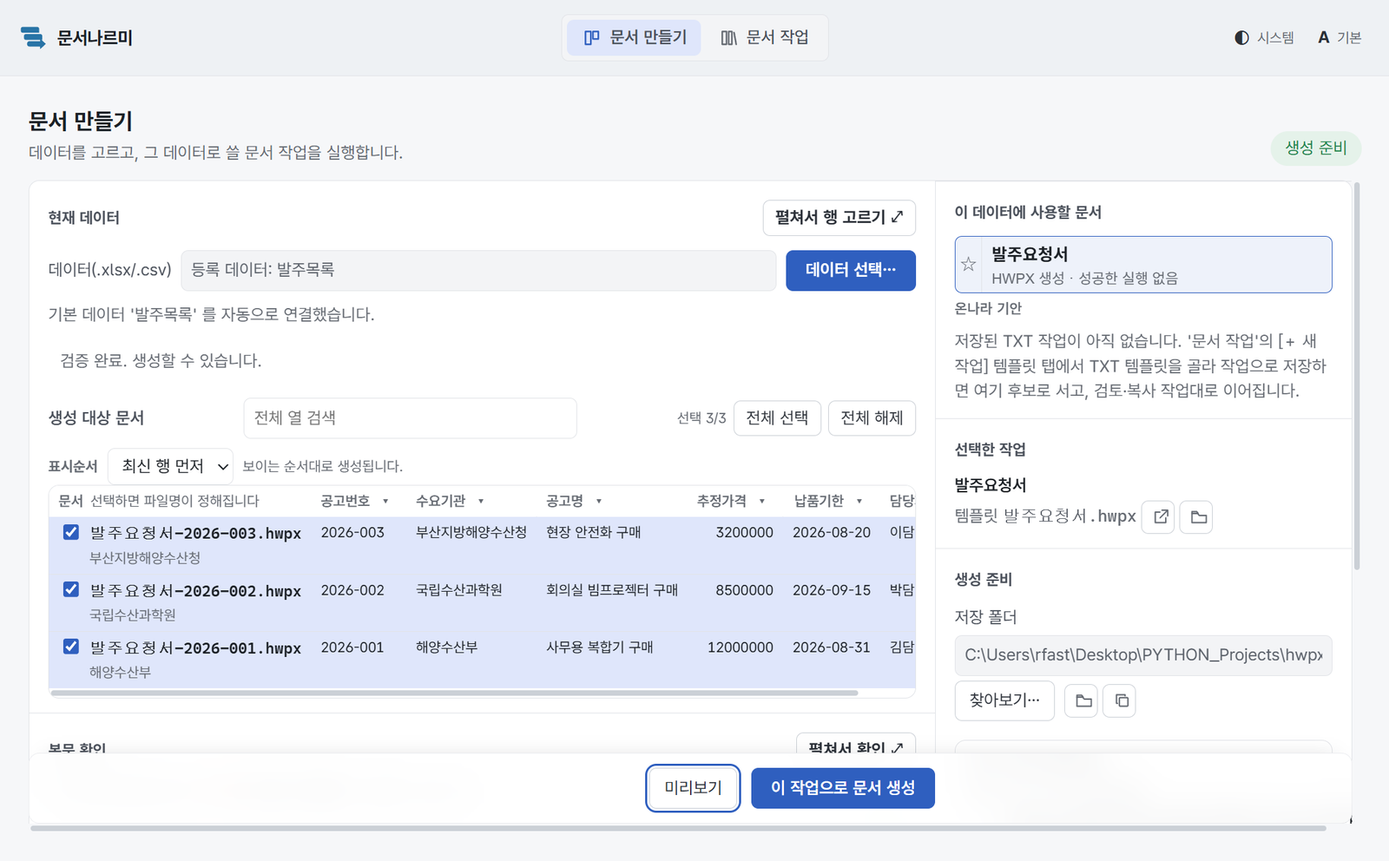
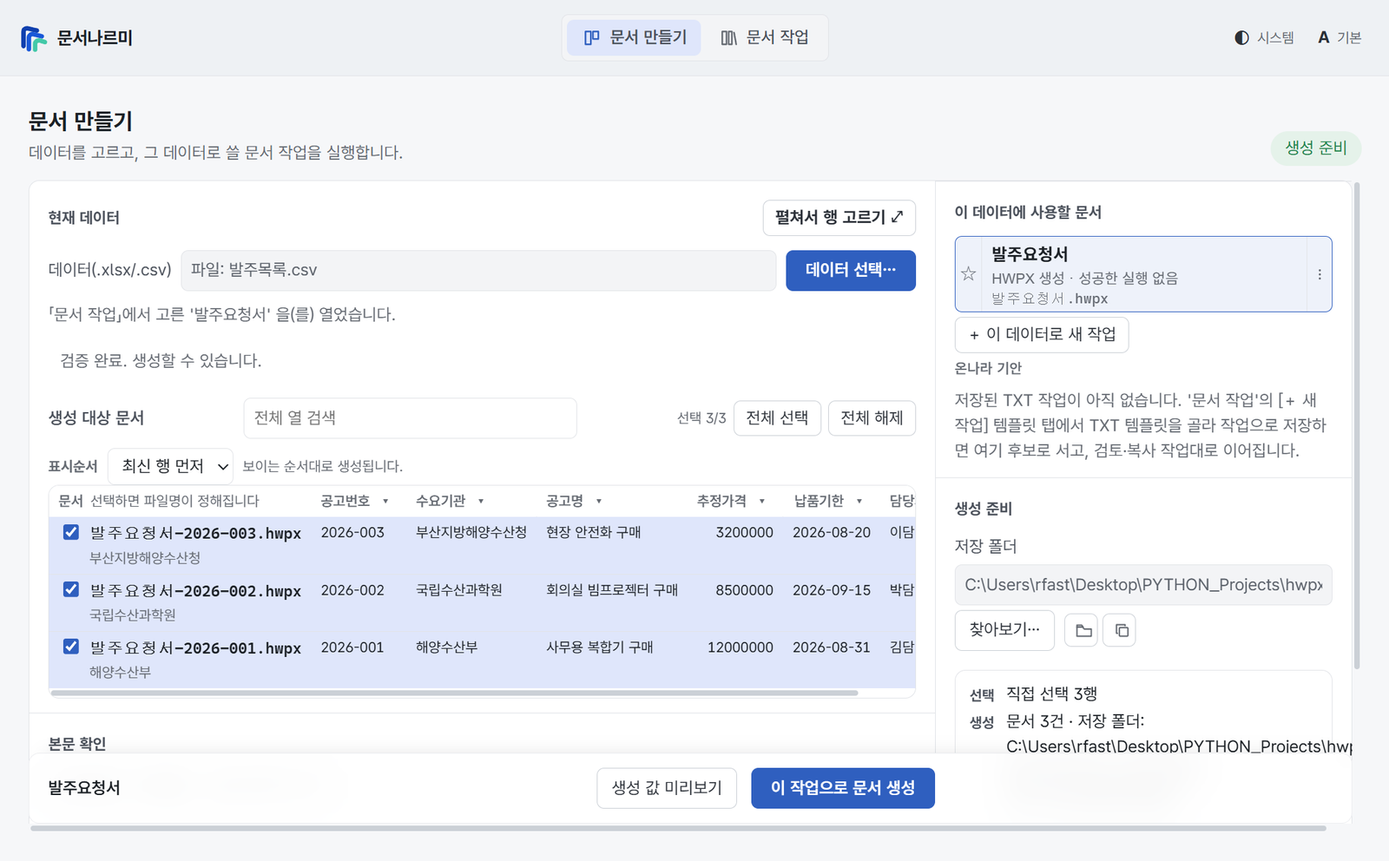
chore(101): 캡처 하니스를 현재 동작에 맞추고 14컷 재생성 (#352)
근거: docs/UX_FEEDBACK_U2.md §6 매체 경보. 기준 트리 `ee9a0a5`.

착수해 보니 원인이 「안 돌렸다」가 아니었다 — 하니스가 7단계에서 죽었다. #347(27f7b0a)이 작업↔데이터 결속과 자동 조준을 폐기했으므로 「기본 데이터 자동 연결」 문안은 다시 서지 않는다. 계측 매체가 사라진 동작을 기다리며 멈춰 있었고, 낡은 그림은 그 결과였다.

- 하니스 대기 조건 9자리를 현재 동작으로: 데이터 선택 실경로(#347·#343) · 「생성 값 미리보기」 + 비잠금 확인 · 본문 확인 한 줄(#346) · 저장 시 등록 왕복 삭제(#347) · 화면 전체 텍스트 매칭 → #jobActionName 정확 비교(전자는 안 열린 화면을 통과로 읽는다) · 스키마 표로 스크롤
- shot(settle=) 로 찢긴 프레임 2건 봉합 — 대기 조건은 먼저 참이 되는 것 하나만 보고 마지막 페인트는 DOM 에서 못 잰다
- 101 README 서사 정정(데이터 선택 걸음 신설 · 사라진 3개 서술 삭제 · ack → 승인 1번 · 캡션 5곳)
- 14컷 재생성 + 양성 대조: 08 에 「생성 값 미리보기」 실재 · 「선택한 작업」 존 소멸(#342) · 05 데이터 함께 등록 소멸(#347) · 07 1 pane 시트(#346) 눈으로 확인

남긴 것: PATTERNS.md(102)의 같은 부류 stale 3곳은 더 이른 마일스톤 잔재까지 안고 있어 별도 단위.

Closes #352

diff --git a/scripts/capture_101_screenshots.py b/scripts/capture_101_screenshots.py
@@ -206,8 +206,15 @@ class Driver:
         if not ok:
             raise RuntimeError(f"스크롤 대상 못 찾음: {sel}")
 
-    def shot(self, name: str) -> None:
-        time.sleep(0.45)  # 렌더·모션(≤160ms)·스크롤 안정
+    def shot(self, name: str, settle: float = 0.45) -> None:
+        """캡처 1컷 — ``settle`` 은 셔터 앞 정착 시간(렌더·모션 ≤160ms·스크롤).
+
+        대기 조건은 **먼저 참이 되는 것 하나**만 본다(예: 복사 카운터). 같은 왕복이
+        낳는 다른 재렌더(왼쪽 표 전체)가 아직 합성 중이면 ``PrintWindow`` 가 반쪽
+        프레임을 뜬다 — 실제로 그렇게 찢긴 컷이 나왔다. 조건을 더 붙여도 「마지막
+        페인트가 끝났는가」는 DOM 에서 못 재므로, 재렌더가 큰 자리만 정착을 늘린다.
+        """
+        time.sleep(settle)
         self.shot_no += 1
         _capture_window(self.hwnd, OUT_DIR / f"{self.shot_no:02d}-{name}.png")
 
@@ -262,6 +269,10 @@ def _drive(d: Driver) -> None:
         "document.querySelector('#scr-editor').textContent.includes('공고번호')",
         "템플릿 선택·필드 스키마",
     )
+    # 텍스트가 **있다**는 것과 **보인다**는 것은 다르다: 스키마 표는 템플릿 목록 아래라
+    # 기본 스크롤에서 폴드 밖이고, 위 조건은 그 상태에서도 참이다(문서가 "6개 필드를
+    # 확인한다"고 적은 그림에 표가 없게 된다). 겨눠 스크롤해 그 말을 그림이 지게 한다.
+    d.scroll_to("#scr-editor table.schema-fields")
     d.shot("template-pick")
 
     # ---- S3 2단계: 데이터 연결 + 모두 확정 ---------------------------------
@@ -316,9 +327,7 @@ def _drive(d: Driver) -> None:
     d.wait("document.querySelector('#scr-job.on') !== null", "편집기 이탈")
 
     # ---- S5 실행 세션(「문서 작업」에서 골라 문서 만들기로) ------------------
-    # 좌 목록 사망 뒤 저장된 작업을 찾는 자리는 「문서 작업」 하나다(F2 PR-B). 3단계의
-    # "데이터 함께 등록" 기본값 덕에 이 작업은 기본 데이터를 가지므로, 「문서 만들기에서
-    # 사용」이 곧바로 열고 3건을 자동 연결한다(#53-A · 지도 §10.9 판정 I).
+    # 좌 목록 사망 뒤 저장된 작업을 찾는 자리는 「문서 작업」 하나다(F2 PR-B).
     d.js("window.Nav.go('library'); true;")
     d.wait(
         "!!document.querySelector('#libraryList [data-work=\"발주요청서\"]')",
@@ -328,13 +337,44 @@ def _drive(d: Driver) -> None:
     d.wait("!!document.querySelector('#libraryDetail [data-use]')", "상세 상시 행동")
     d.shot("library-detail")
     d.click_sel('#libraryDetail [data-use="발주요청서"]')
+    # 작업↔데이터 결속(`Job.default_dataset_ref`)과 자동 조준은 U2 §5.3 판정 D 로 폐기됐다
+    # (#347) — 「문서 만들기에서 사용」은 **데이터 선택을 반드시 지난다**. 데이터가 없으면
+    # 백엔드가 그 명시 사건을 보관만 하고(reason=no_data), 마운트 순간
+    # `_apply_preferred_work` 가 그때 판정해 작업을 연다. 101 도 이 순서를 그대로 가르친다.
+    d.wait("document.querySelector('#scr-job.on') !== null", "문서 만들기 착지")
+    _DIALOG_ANSWERS.append(CSV)
+    d.click_sel("#jobBtnPickData")
     d.wait(
-        "document.querySelector('#scr-job').textContent.includes('자동으로 연결')",
-        "기본 데이터 자동 연결",
+        "!document.getElementById('dataPickerModal').classList.contains('hidden')",
+        "데이터 선택 면",
+    )
+    d.click_sel("#dataPickerBrowse")
+    # 찾아보기 성사는 **면을 닫지 않는다**(U2 §2.7, #343): 「현재 데이터」가 방금 고른
+    # 파일로 재진술되고 그 자리에 「이 데이터 고정…」이 선다. 존재만 재면 hidden 버튼도
+    # 통과하므로(프로브 click 이 hidden 을 지나는 것과 같은 함정) **가시성**으로 잰다.
+    d.wait(
+        "(function(){"
+        "if(document.getElementById('dataPickerModal').classList.contains('hidden'))return false;"
+        "if(!document.querySelector('#dataPickerCurrent .tplcard-name'))return false;"
+        "const b=document.getElementById('dataPickerPin');"
+        "return !!b && getComputedStyle(b).display !== 'none';})()",
+        "찾아보기 성사·면 유지·고정 버튼 가시",
+        timeout=25.0,
+    )
+    d.click_sel("#dataPickerClose")
+    # 보관된 명시 사건이 이 마운트에서 판정돼 작업이 열린다. 「열렸다」의 정본은 액션바
+    # 이름이다(「선택한 작업」 존 사망의 승계처 — U2 §4 판정 A, #342): 후보 카드 문안으로
+    # 재면 카드 목록에 이름이 **있기만 해도** 참이 돼 안 열린 화면을 통과로 읽는다.
+    d.wait(
+        "document.getElementById('dataPickerModal').classList.contains('hidden')"
+        " && document.getElementById('jobActionName').textContent.trim() === '발주요청서'"
+        " && document.getElementById('jobDataLabel').value.length > 0"
+        " && !document.getElementById('jobSelAll').disabled",
+        "데이터 마운트·보관 작업 승격",
         timeout=25.0,
     )
     # 데이터-우선 계약(§18.2): 새 데이터의 선택은 **0건**에서 시작한다 — 무엇을 만들지는
-    # 사용자가 고른다. 그래서 자동 연결만으로는 게이트가 열리지 않고, 여기서 전체 선택을
+    # 사용자가 고른다. 그래서 마운트만으로는 게이트가 열리지 않고, 여기서 전체 선택을
     # 눌러야 「N개 생성」이 열린다. 101 도 이 순서를 그대로 가르친다.
     d.click_sel("#jobSelAll")
 
@@ -342,9 +382,13 @@ def _drive(d: Driver) -> None:
     # 방금 만든 작업은 아직 한 번도 문서를 만들지 않았다 — §13-3 대로 결과를 확인해야
     # 실행할 수 있다. 행을 골라도 게이트는 아직 닫혀 있고, 미리보기에서 확인해야 열린다.
     # 101 은 이 순서를 그대로 가르친다(다음 실행부터는 §13-2 대로 조용하다).
+    # 게이트가 「생성 값 미리보기」를 지목하는데 그 버튼이 잠겨 있으면 이행 불가능한
+    # 지시다 — 지목과 가용성을 **같이** 재고 나서 누른다(누를 것을 찾지 못하는 상태에서
+    # click 만 던지면 「버튼 못 찾음」이 아니라 조용한 무반응이 된다).
     d.wait(
         "document.getElementById('jobGenBtn').disabled"
-        " && document.getElementById('jobGate').textContent.includes('미리보기')",
+        " && document.getElementById('jobGate').textContent.includes('생성 값 미리보기')"
+        " && !document.getElementById('jobPreviewOpen').disabled",
         "첫 실행 검토 요구",
     )
     d.click_sel("#jobPreviewOpen")
@@ -352,9 +396,11 @@ def _drive(d: Driver) -> None:
         "!document.getElementById('previewSheet').classList.contains('hidden')"
         " && document.querySelectorAll('#previewRows .mir-row').length > 0"
         " && document.getElementById('previewFilename').textContent.length > 0",
-        "미리보기 드로어·값·파일 이름",
+        "확인 면(생성 값 미리보기)·값·파일 이름",
     )
-    d.shot("preview-drawer")
+    # 시트 전이(합성 레이어 신설 + 본문 채우기)도 같은 반쪽 프레임 함정이 있다 —
+    # 모달 컷이 간헐적으로 찢겼던 자리라 정착을 넉넉히 준다.
+    d.shot("preview-drawer", settle=1.2)
     d.click_sel("#previewApprove")
     # 승인은 명시 사건이다 — 버튼이 사라지는 것이 그 사건의 착지다(면은 열린 채 남아
     # 나머지 문서를 계속 넘겨볼 수 있다).
@@ -414,8 +460,17 @@ def _drive(d: Driver) -> None:
         "취소 뒤 메인 범위 보존",
     )
 
-    # ---- S6 본문 확인(거울) ------------------------------------------------
-    d.scroll_to("#jobMirror")
+    # ---- S6 본문 확인(한 줄) ------------------------------------------------
+    # 거울 표와 필드축 ack 는 U2 §2.13 으로 폐기됐다(#346) — 값을 말하는 표면은 확인 면
+    # 하나이고, 이 존에 남은 것은 빈 값 표지·이름 건수·확인 면 출구 한 줄이다. 그 줄이
+    # **서 있는 것을 확인한 뒤** 찍는다: 존만 겨눠 찍으면 한 줄이 hidden 인 화면(선택 0건·
+    # 차단 배너)도 같은 컷으로 지나간다.
+    d.wait(
+        "!document.getElementById('jobMirrorLine').hidden"
+        " && document.getElementById('jobMirrorSummary').textContent.trim().length > 0",
+        "본문 확인 한 줄",
+    )
+    d.scroll_to("#jobMirrorZone")
     d.shot("mirror-check")
 
     # ---- S7 생성 → 완료 요약 ----------------------------------------------
@@ -463,10 +518,8 @@ def _drive(d: Driver) -> None:
     )
     assert d.js("window.__cap.setValue('#editorName', '발주요청 기안')")
     d.click("#scr-editor", "작업 저장")
-    # 트랙 A 가 같은 CSV 를 이미 「발주목록」으로 등록했다 — 같은 이름 재등록 확인이 선다
-    # (조용한 참조 덮어쓰기 금지). 같은 파일·같은 뜻이라 실습도 [덮어쓰기]로 지난다.
-    d.wait("!!window.__cap.btn(null,'덮어쓰기')", "등록 데이터 동명 확인")
-    d.js("window.__cap.clickBtn(null,'덮어쓰기'); true;")
+    # (구 「등록 데이터 동명 확인 → [덮어쓰기]」 왕복은 #347 로 사라졌다 — 저장은 데이터를
+    #  등록하지도 결속하지도 않는다. 풀 등록은 데이터 선택 면의 「이 데이터 고정」뿐이다.)
     d.wait(
         "document.querySelector('#scr-editor').textContent.includes('저장했습니다')",
         "TXT 작업 저장 착지",
@@ -485,9 +538,13 @@ def _drive(d: Driver) -> None:
     d.click_sel('#libraryList [data-work="발주요청 기안"]')
     d.wait("!!document.querySelector('#libraryDetail [data-use=\"발주요청 기안\"]')", "TXT 상세")
     d.click_sel('#libraryDetail [data-use="발주요청 기안"]')
+    # 이번엔 데이터 선택을 다시 지나지 않는다 — 앞 단계에서 마운트한 발주목록이 **세션
+    # 소유**라 작업 전환에서 생존한다(데이터-우선 §18.2). 그래서 prefer_work 가 즉시
+    # 승격시키고, 그 사실을 액션바 이름이 말한다.
     d.wait(
-        "document.querySelector('#scr-job').textContent.includes('자동으로 연결')",
-        "TXT 기본 데이터 자동 연결",
+        "document.getElementById('jobActionName').textContent.trim() === '발주요청 기안'"
+        " && !document.getElementById('jobSelAll').disabled",
+        "TXT 작업 전환",
         timeout=25.0,
     )
     d.click_sel("#jobSelAll")
@@ -515,7 +572,9 @@ def _drive(d: Driver) -> None:
         ".trim().indexOf('1 /') === 0",
         "복사 카운터",
     )
-    d.shot("workbench-copied")
+    # 복사 왕복은 카운터·완료 배지·왼쪽 표를 함께 다시 그린다 — 카운터만 재고 곧바로
+    # 셔터를 누르면 표가 합성 중인 반쪽 프레임이 남는다(관측됨).
+    d.shot("workbench-copied", settle=1.2)
     # 미복사 잔량이 있는 이탈은 가드가 확인을 요구한다(T3 승계) — 실 클릭으로 지난다.
     d.click_sel("#wbBack")
     d.wait(
@@ -557,8 +616,6 @@ def _drive(d: Driver) -> None:
     )
     assert d.js("window.__cap.setValue('#editorName', '오류연습')")
     d.click("#scr-editor", "작업 저장")
-    d.wait("!!window.__cap.btn(null,'덮어쓰기')", "등록 데이터 동명 확인(오류 연습)")
-    d.js("window.__cap.clickBtn(null,'덮어쓰기'); true;")
     d.wait(
         "document.querySelector('#scr-editor').textContent.includes('저장했습니다')",
         "오류 연습 저장 착지",
@@ -574,10 +631,10 @@ def _drive(d: Driver) -> None:
     d.click_sel('#libraryList [data-work="오류연습"]')
     d.wait("!!document.querySelector('#libraryDetail [data-use=\"오류연습\"]')", "오류 연습 상세")
     d.click_sel('#libraryDetail [data-use="오류연습"]')
-    # 이번엔 「자동으로 연결」 고지가 없다 — 같은 데이터(발주목록)가 앞 단계에서 이미
-    # 마운트돼 있어 prefer_work 가 데이터 재연결 없이 작업만 바꾼다. 전환 사실로 기다린다.
+    # 여기도 데이터는 그대로다(세션 소유) — 작업만 바뀐다. 화면 전체 텍스트로 재면 후보
+    # 카드에 이름이 **떠 있기만 해도** 참이 되므로 액션바 이름으로 겨눈다.
     d.wait(
-        "document.querySelector('#scr-job').textContent.includes('오류연습')"
+        "document.getElementById('jobActionName').textContent.trim() === '오류연습'"
         " && !document.getElementById('jobSelAll').disabled",
         "오류 연습 작업 전환",
         timeout=25.0,

diff --git a/examples/quickstart-101/README.md b/examples/quickstart-101/README.md
@@ -126,7 +126,8 @@ macOS/Linux: `HWPXFILLER_HOME="$PWD/examples/quickstart-101" python -m hwpxfille
 2. **템플릿**: 템플릿 라이브러리 목록에서 `발주요청서.hwpx` 행의
    **[이 템플릿으로]** 를 누른다. 아래에 **필드 6개**의 스키마 표(필드·추정 타입·위치·
    문맥)가 뜬다. 확인했으면 **[다음 ▶]**.
-   (라이브러리 밖의 파일을 쓰려면 **[가져오기…]** — 파일을 라이브러리로 복사해 온다.)
+   (라이브러리 밖의 파일을 쓰려면 **[가져오기…]** — 파일을 라이브러리로 복사해 온다.
+   폴더째 들여올 땐 **[폴더에서 가져오기…]**.)
 
    ![템플릿 — 라이브러리에서 고르기](img/03-template-pick.png)
    *그림 3. 템플릿을 고르면 필드 스키마 표가 뜬다. 6개 필드가 모두 보이는지 확인한다.*
@@ -143,16 +144,17 @@ macOS/Linux: `HWPXFILLER_HOME="$PWD/examples/quickstart-101" python -m hwpxfille
 
 4. **파일 이름**: 화면 머리의 **작업 이름**에 `발주요청서`, 탭 안 **파일명 패턴**을
    `발주요청서-{{공고번호}}` 로 바꾼다(기본값 `공고서-{{date}}-{{seq:001}}`). 입력하면
-   바로 아래 "예: 발주요청서-2026-001.hwpx" 라이브 예시가 따라온다. **데이터 함께
-   등록**이 켜져 있어(등록 이름 `발주목록`) 저장하면 방금 그 CSV 가 등록 데이터로
-   올라가 **이 작업의 기본 데이터**로 연결된다 → **[작업 저장]**.
+   바로 아래 "예: 발주요청서-2026-001.hwpx" 라이브 예시가 따라온다 → **[작업 저장]**.
+   **저장은 데이터를 등록하지도, 이 작업에 묶지도 않는다** — 작업이 기억하는 것은
+   템플릿·매핑·파일명 규칙뿐이고, 데이터는 만들 때마다 겨눈다. 자주 쓰는 파일은
+   **[데이터 선택…]** 창의 **[이 데이터 고정…]** 으로 따로 남긴다.
    (패턴에는 이 작업이 채우는 필드 이름과 `{{date}}`·`{{seq:001}}` 만 쓸 수 있다 —
    "파일명에 넣을 수 있는 값 (펼쳐 보기)" 참고.) 저장하면 화면 머리가
    **저장됨 · 템플릿 r1 · 연결 r1** 로 바뀐다 — 규칙을 고쳐 저장할 때마다 그 자리의
    숫자가 오르고, 실행 결과와 미리보기가 "어느 판본으로 만들었는지"를 그 숫자로 말한다.
 
    ![파일 이름 — 규칙과 라이브 예시](img/05-save-job.png)
-   *그림 5. 파일명 패턴은 라이브 예시로 결과를 미리 보여 주고, 데이터 함께 등록이 기본으로 켜져 있다.*
+   *그림 5. 파일명 패턴은 라이브 예시로 결과를 미리 보여 준다. 이 탭이 정하는 것은 이름 규칙뿐이다.*
 
 **[← 원래 업무로 돌아가기]** 로 편집기를 나오면 **문서 작업** 탭 목록에 `발주요청서` 가
 생긴다. (규칙을 고치다 나가려 하면 **저장하고 나가기 / 버리고 나가기 / 머무르기** 를
@@ -164,16 +166,21 @@ macOS/Linux: `HWPXFILLER_HOME="$PWD/examples/quickstart-101" python -m hwpxfille
    **[문서 만들기에서 사용]** 을 누른다 — 「문서 만들기」로 넘어가며 그 작업이 열린다.
 
    ![문서 작업 — 상세와 상시 행동](img/06-library-detail.png)
-   *그림 6. 행을 고르면 상세가 열린다. 아래 두 버튼(문서 만들기에서 사용·작업 편집)은 스크롤과 무관하게 고정.*
+   *그림 6. 행을 고르면 상세가 열린다. 템플릿 행에는 열기·폴더에서 보기가 붙고, 아래 두 버튼(문서 만들기에서 사용·작업 편집)은 상세 스크롤과 무관하게 고정.*
 
-2. 화면은 **두 열**이다: 왼쪽 *현재 데이터 → 생성 대상 문서 표 → 본문 확인 → 생성 결과*,
+2. **데이터를 고른다.** 「문서 만들기」로 넘어가면 **[데이터 선택…]** 을 눌러
+   **[파일 찾아보기…]** 로 `data/발주목록.csv` 를 고른다. **작업은 데이터를 기억하지
+   않으므로** 이 걸음은 건너뛸 수 없다 — 어느 데이터로 만드는지는 매번 사람이 정한다.
+   고르고 나도 창은 닫히지 않고 「현재 데이터」가 방금 고른 파일로 바뀌며 그 자리에
+   **[이 데이터 고정…]** 이 선다(자주 쓸 파일이면 여기서 「고정한 데이터」 목록에 남긴다).
+   이대로 쓸 것이면 **[닫기]**. 창이 닫히면 앞에서 고른 `발주요청서` 작업이 열리고
+   3건이 로드된다.
+
+3. 화면은 **두 열**이다: 왼쪽 *현재 데이터 → 생성 대상 문서 표 → 본문 확인 → 생성 결과*,
    오른쪽 *이 데이터에 사용할 문서 · 생성 준비* — 지금 열린 작업은 후보 카드 강조와 하단
-   액션바의 이름이 말한다. 방금 데이터를 함께
-   등록했으므로 **"기본 데이터 '발주목록' 를 자동으로 연결했습니다."** 고지와 함께 3건이
-   로드된다. **만들 행은 직접 고른다** — **[전체 선택]** 을 누르면 3건에 체크가 들어가고
-   행마다 실제 파일명 미리보기가 붙는다.
-   저장 폴더는 기본으로 `templates\Results`. (다른 파일로 바꾸려면 **[데이터 선택…]** —
-   고정해 둔 데이터와 새 파일 찾기가 한 창에 있다.)
+   액션바 왼쪽의 이름이 말한다. **만들 행은 직접 고른다** — **[전체 선택]** 을 누르면
+   3건에 체크가 들어가고 행마다 실제 파일명 미리보기가 붙는다.
+   저장 폴더는 기본으로 `templates\Results`.
 
    행을 골라도 **[이 작업으로 문서 생성]** 은 아직 잠겨 있다 — 방금 만든 작업이라
    상태 pill 이 **승인 필요**이고, 버튼 옆에도 같은 표지가 붙는다.
@@ -182,11 +189,11 @@ macOS/Linux: `HWPXFILLER_HOME="$PWD/examples/quickstart-101" python -m hwpxfille
    바뀌고 생성이 열린다. 한 번 승인한 뒤로는 같은 규칙으로 다시 만들 때 이 단계가 없다 —
    규칙을 고치면 그때 다시 묻는다.
 
-   ![미리보기 — 들어갈 값과 파일 이름](img/07-preview-drawer.png)
-   *그림 7. 미리보기 드로어 — 이 문서가 받을 값·파일 이름·적용 범위. 승인은 미리보기를 여는 것과 다른 일이다.*
+   ![생성 값 미리보기 — 들어갈 값과 파일 이름](img/07-preview-drawer.png)
+   *그림 7. 확인 면 — 이 문서가 받을 값·파일 이름·확인할 변경이 한 면에 선다. 빈 값이 있으면 「빈 값 있는 건만 보기」로 그 건들만 넘겨볼 수 있다. 승인은 면을 여는 것과 다른 일이다.*
 
-   ![세션 패널 — 자동 연결·3건 선택](img/08-session-panel.png)
-   *그림 8. 승인 뒤의 세션 패널 — 자동 연결 고지 + 3건 선택 + 오른쪽 후보 카드에 이 작업이 활성, pill 은 생성 준비.*
+   ![세션 패널 — 3건 선택](img/08-session-panel.png)
+   *그림 8. 승인 뒤의 세션 패널 — 3건 선택 + 오른쪽 후보 카드에 이 작업이 활성, 아래 액션바가 작업 이름을 말하고 pill 은 생성 준비.*
 
    행이 많으면 **[펼쳐서 행 고르기 ⤢]** — 큰 화면에서 검색·필터로 좁히고 **표시순서**를
    고른다. 표시순서는 곧 **만들어지는 순서**다(파일 이름에 순번을 쓰면 그 번호도 이 순서를
@@ -196,13 +203,15 @@ macOS/Linux: `HWPXFILLER_HOME="$PWD/examples/quickstart-101" python -m hwpxfille
    ![범위 편집기 — 표시순서와 적용/취소](img/09-range-editor.png)
    *그림 9. 펼침 면에서 표시순서를 「원본 순서」로 바꾼 상태. 아래 줄이 적용 전임을 말한다.*
 
-3. **본문 확인**(거울)으로 내려가 문서에 들어갈 값을 훑는다. 필드마다 표본 값과
-   **채움** 칩이 보이면 정상이다(빈 값이 있으면 여기 빨간 행이 뜬다 — 아래 안전장치).
+4. **본문 확인**으로 내려간다. 여기는 한 줄이다 — **빈 값 없음 · 이름 3건** 처럼
+   *빈 값이 있는지*와 *이름이 몇 건인지*만 말하고, 값 자체는 **[생성 값 미리보기 ⤢]** 로
+   확인 면에서 본다(값을 말하는 표면은 그 면 하나다). 빈 값이 있으면 이 줄이 어느 필드가
+   비는지 이름으로 지목한다.
 
-   ![본문 확인 — 거울 표](img/10-mirror-check.png)
-   *그림 10. 거울 표 — 이 문서에 실제로 들어갈 값과 채움 상태를 생성 전에 확인한다.*
+   ![본문 확인 — 한 줄 요약과 확인 면 출구](img/10-mirror-check.png)
+   *그림 10. 본문 확인 한 줄 — 빈 값 유무·이름 건수, 그리고 값으로 가는 출구.*
 
-4. 하단 **[이 작업으로 문서 생성]** 을 누른다. 진행바("생성 중… 1/3")가 돌고, 끝나면
+5. 하단 **[이 작업으로 문서 생성]** 을 누른다. 진행바("생성 중… 1/3")가 돌고, 끝나면
    **생성 결과** 구획이 선다: **"문서 생성 완료 · 3개"** 제목, `완료. 성공 3/3, 실패 0.`
    요약, 저장 폴더와 열기·복사 버튼. 일부만 실패하면 같은 자리가 **"N개 성공 · M개 실패"**
    로 서고 실패한 행이 *어느 항목인지·왜인지*와 함께 남는다(원인을 못 찾았으면 「원인 진단
@@ -219,9 +228,11 @@ macOS/Linux: `HWPXFILLER_HOME="$PWD/examples/quickstart-101" python -m hwpxfille
 
 원칙은 **"묻고 확정하게 하라, 아니면 시끄럽게 알려라"** — 애매하면 조용히 진행하지 않는다.
 
-- **빈 값이 있으면 생성이 잠긴다.** 어떤 필드가 비면 거울 표에 **빈 값 · 클릭=확인**
-  칩이 뜨고, 클릭해 **확인됨** 으로 바꿔야 생성이 열린다. 확인하고 생성하면 그 자리에
-  `〘미입력·필드명〙` 표식이 들어간다 — 빈칸인 채로 사라지지 않는다.
+- **빈 값은 승인을 다시 받는다.** 어떤 필드가 비면 **본문 확인** 한 줄이 그 필드 이름을
+  지목하고, 확인 면의 **[이 이름과 값으로 승인]** 이 그 빈 값까지 함께 승인한다. 이미
+  한 번 만든 작업이라도 **새 데이터에서 빈 값이 새로 생기면 승인을 다시 묻는다.**
+  그렇게 생성하면 그 자리에 `〘미입력·필드명〙` 표식이 들어간다 — 빈칸인 채로 사라지지
+  않는다.
 - **같은 이름 파일이 있으면 덮어쓰기 확인.** 저장 폴더에 같은 파일명이 있으면
   **"덮어쓰기 확인"** 대화상자가 목록과 함께 뜨고, **[덮어쓰고 생성]** 을 눌러야
   진행한다(손보정했을 수 있는 기존 산출물을 말없이 파괴하지 않으려고).
@@ -245,15 +256,18 @@ macOS/Linux: `HWPXFILLER_HOME="$PWD/examples/quickstart-101" python -m hwpxfille
    않아 자리(탭)가 *템플릿 → 필드 연결·표시* 둘뿐이다(「파일 이름」 없음).
 2. **[다음 ▶]** → **[파일 선택…]** 으로 `data/발주목록.csv` → **[모두 확정]** 으로
    **확정 6/6** → 화면 머리의 작업 이름에 `발주요청 기안` → **[작업 저장]**.
-   (트랙 A 에서 같은 CSV 를 이미 등록했다면 "등록 데이터 '발주목록' 이 이미 있습니다"
-   확인이 선다 — 같은 파일이므로 **[덮어쓰기]** 로 지나면 된다.)
+   (여기서 고른 CSV 는 이 단계의 매핑을 맞추는 데만 쓰인다 — 트랙 A 와 마찬가지로
+   저장이 데이터를 등록하지 않는다.)
 3. **[← 원래 업무로 돌아가기]** 로 나온다.
 
 ### ② 검토·복사 — 반복
 
-1. **문서 작업** 탭에서 `발주요청 기안` → **[문서 만들기에서 사용]**. 기본 데이터가
-   자동 연결되고 3건이 뜬다 → **[전체 선택]**. 실행 버튼이 **[검토·복사 시작 · 3건]**
-   으로 서 있다 — TXT 작업은 파일을 만들지 않으니 실행이 곧 검토·복사다.
+1. **문서 작업** 탭에서 `발주요청 기안` → **[문서 만들기에서 사용]**. 트랙 A 에서 고른
+   `발주목록` 이 아직 물려 있으므로 **데이터를 다시 고를 필요가 없다** — 데이터는 작업이
+   아니라 화면이 들고 있어서 작업만 바뀐다(하단 액션바 이름이 `발주요청 기안` 으로
+   바뀌는 것으로 확인한다). 3건이 그대로 있으니 → **[전체 선택]**. 실행 버튼이
+   **[검토·복사 시작 · 3건]** 으로 서 있다 — TXT 작업은 파일을 만들지 않으니 실행이 곧
+   검토·복사다.
 2. 누르면 **검토·복사 작업대**가 열린다. 오른쪽 카드가 현재 항목 값으로 채워져 있고
    (값 자리는 음영 — 보이는 그대로가 복사 결과다), 왼쪽 **필드 연결·표시** 표에서
    토큰↔열 대응을 그 자리에서 손볼 수 있다(고친 것을 작업에 남기려면
@@ -290,7 +304,7 @@ macOS/Linux: `HWPXFILLER_HOME="$PWD/examples/quickstart-101" python -m hwpxfille
 |---|---|
 | 템플릿 라이브러리가 비어 있다 | 앱을 `start-101.cmd` 로 실행했는지 확인 — 홈이 이 폴더로 잡혀야 `templates/` 가 뜬다 |
 | 매핑이 자동 제안되지 않는다 | CSV 헤더와 필드명이 정확히 같아야 한다(공백·괄호 차이도 다른 이름) — 매핑표에서 직접 열을 고르면 된다 |
-| 생성 버튼이 잠겨 있다 | 게이트 캡션이 이유를 서수로 알려 준다(①…②…). 대개 데이터 미연결이거나 빈 값 미확인 |
+| 생성 버튼이 잠겨 있다 | 버튼 옆 캡션이 이유를 말한다. 대개 데이터를 안 골랐거나, 행을 안 골랐거나, 「생성 값 미리보기」에서 승인을 안 한 것 |
 | 작업대 카드에 `(빈 값)` | 데이터에 그 이름의 열이 없다 — 왼쪽 「필드 연결·표시」에서 다른 열을 연결하거나 값을 직접 입력한다 |
 | 실습을 처음부터 다시 | `reset-101.cmd` 더블클릭(예제 자산은 남고 실습 상태만 지워진다) |
 
@@ -302,7 +316,7 @@ macOS/Linux: `HWPXFILLER_HOME="$PWD/examples/quickstart-101" python -m hwpxfille
 |---|---|
 | 한 데이터→여러 템플릿 / 여러 데이터→한 템플릿 / 작업 전환 | [102 — 세 가지 실전 조합](PATTERNS.md) |
 | 내 초안(평문 {{토큰}} hwpx)을 누름틀 템플릿으로 | **템플릿 관리** → 카드 **[누름틀 변환]** |
-| 데이터 파일을 고정해 생성 때마다 재사용 | **[데이터 선택…]** → **[이 데이터 고정]** |
+| 데이터 파일을 고정해 생성 때마다 재사용 | **[데이터 선택…]** → **[이 데이터 고정…]** |
 | 템플릿이 많아지면 그룹으로 정리 | **템플릿 관리** — 그룹 지정·접기 |
 | 더 큰 실사용 예제 | [`tests/corpus/scenario/`](../../tests/corpus/scenario/README.md) |
 
